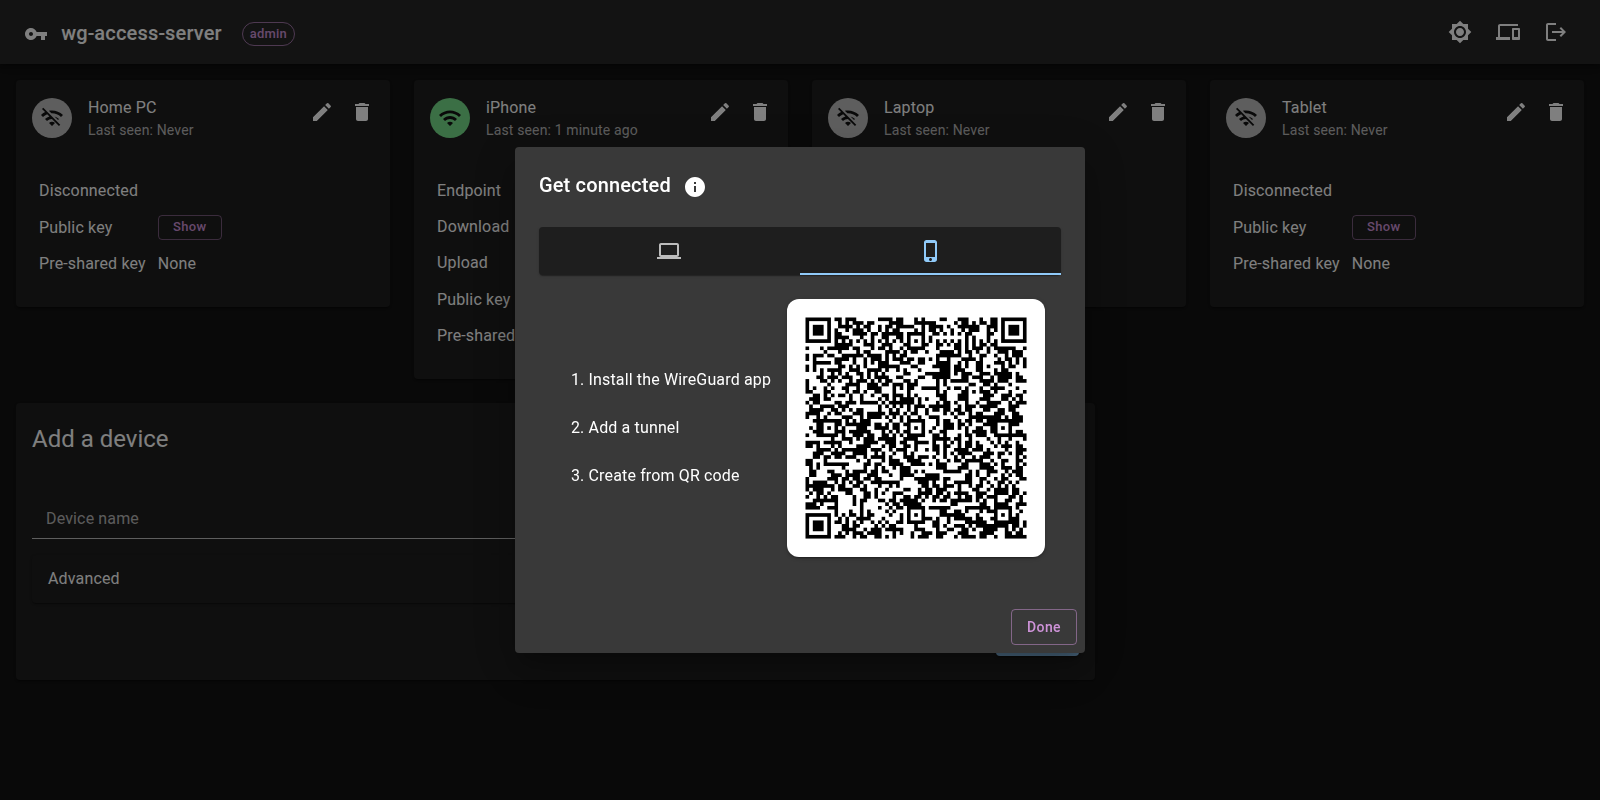
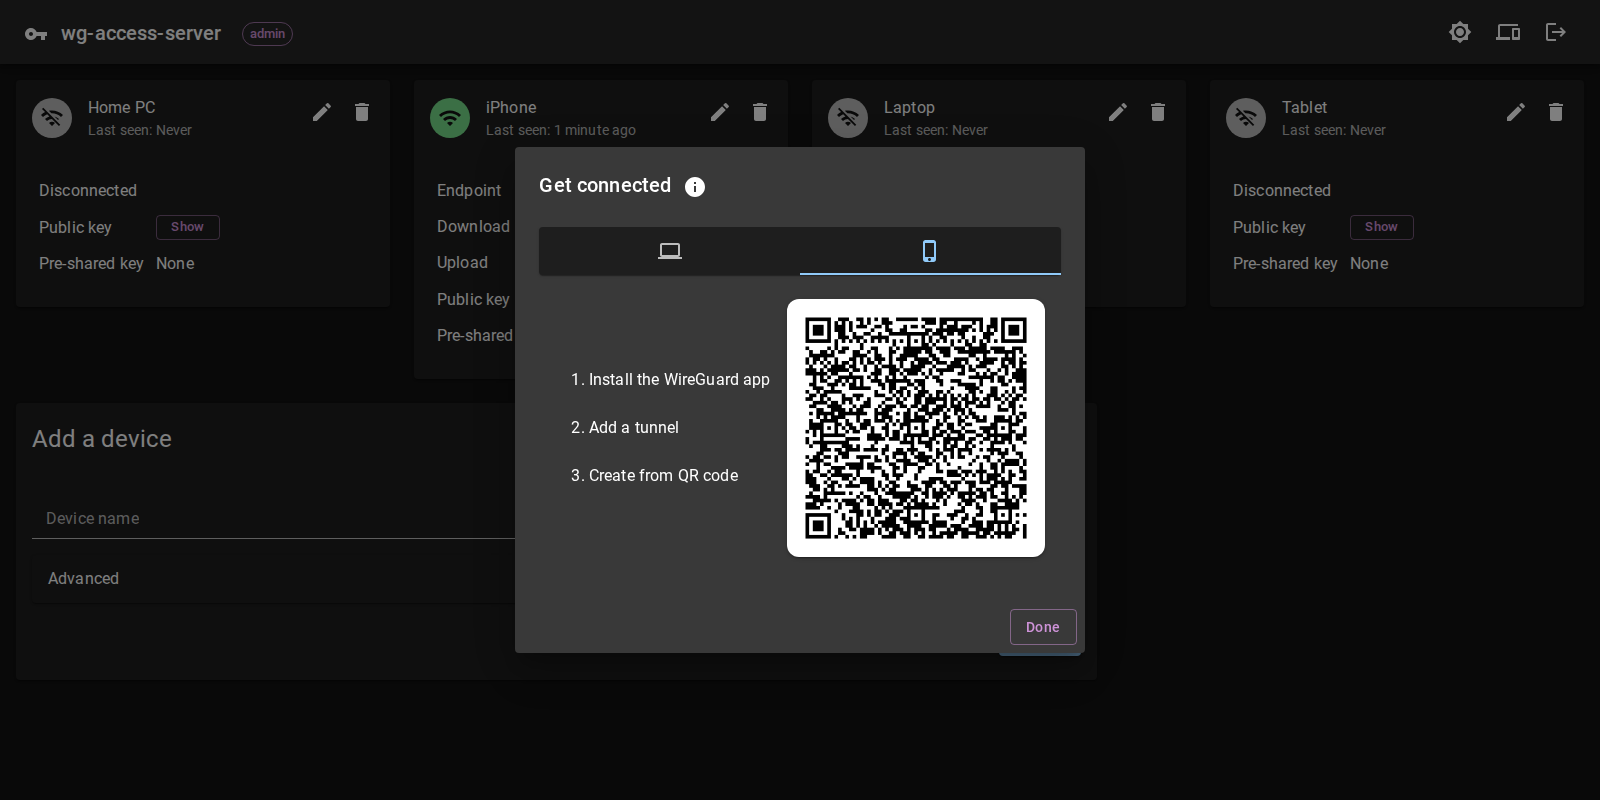
feat(website): take the README screenshots with Playwright (#1286)
* feat(website): take the README screenshots with Playwright

* docs: retake the screenshots with the script

diff --git a/scripts/screenshots/seed/main.go b/scripts/screenshots/seed/main.go
@@ -1,0 +1,72 @@
+// Command seed fills a database with the devices the README screenshots
+// show. It writes through the storage package, so the server finds exactly
+// what it would have stored itself - including traffic and a recent handshake,
+// which only a running WireGuard interface would produce otherwise.
+//
+// It is run by website/scripts/screenshots.mjs.
+package main
+
+import (
+	"encoding/base64"
+	"flag"
+	"fmt"
+	"time"
+
+	"github.com/sirupsen/logrus"
+
+	"github.com/freifunkMUC/wg-access-server/internal/storage"
+)
+
+// key derives a stable public key from a name, so that the devices look the
+// same on every run.
+func key(name string) string {
+	var k [32]byte
+	copy(k[:], name)
+	return base64.StdEncoding.EncodeToString(k[:])
+}
+
+func main() {
+	uri := flag.String("storage", "", "storage URI, e.g. sqlite3:///tmp/screenshots.db")
+	owner := flag.String("owner", "admin", "the user the devices belong to")
+	flag.Parse()
+
+	s, err := storage.NewStorage(*uri)
+	if err != nil {
+		logrus.Fatal(err)
+	}
+	if err := s.Open(); err != nil {
+		logrus.Fatal(err)
+	}
+	defer func() { _ = s.Close() }()
+
+	now := time.Now()
+	for i, name := range []string{"Home PC", "Laptop", "iPhone"} {
+		device := &storage.Device{
+			Owner:         *owner,
+			OwnerName:     *owner,
+			OwnerProvider: "simple",
+			Name:          name,
+			PublicKey:     key(name),
+			Address:       fmt.Sprintf("10.44.0.%d/32, fd48:4c4:7aa9::%d/128", i+2, i+2),
+			CreatedAt:     now.Add(-time.Duration(3-i) * 24 * time.Hour),
+		}
+		if err := s.Save(device); err != nil {
+			logrus.Fatal(err)
+		}
+	}
+
+	// The phone is connected: it talked to the server a moment ago. The
+	// endpoint is from the documentation range (RFC 5737), not a real one.
+	err = s.RecordMetadata([]storage.MetadataUpdate{{
+		PublicKey:     key("iPhone"),
+		ReceiveBytes:  1_014_000,
+		TransmitBytes: 24_380_000,
+		Connection: &storage.PeerConnection{
+			Endpoint:          "203.0.113.42:51820",
+			LastHandshakeTime: now.Add(-50 * time.Second),
+		},
+	}})
+	if err != nil {
+		logrus.Fatal(err)
+	}
+}

diff --git a/README.md b/README.md
@@ -199,6 +199,20 @@ out the same VPN address, the LISTEN/NOTIFY watcher that tells the replicas abou
 the schema migrations. The migration tests create a database of their own for every run, which is why
 the MySQL tests connect as root.
 
+### Screenshots:
+
+The screenshots in this README are taken with [Playwright](https://playwright.dev). To take them
+again after changing the web UI:
+
+```sh
+cd website
+npx playwright install chromium   # once
+npm run screenshots
+```
+
+It builds the web UI and the server, starts the server with a few example devices and writes the
+images to `screenshots/`. It needs Go and leaves nothing running.
+
 ### The API:
 
 The web UI talks to the server over [gRPC-Web](https://github.com/grpc/grpc-web). The API is
